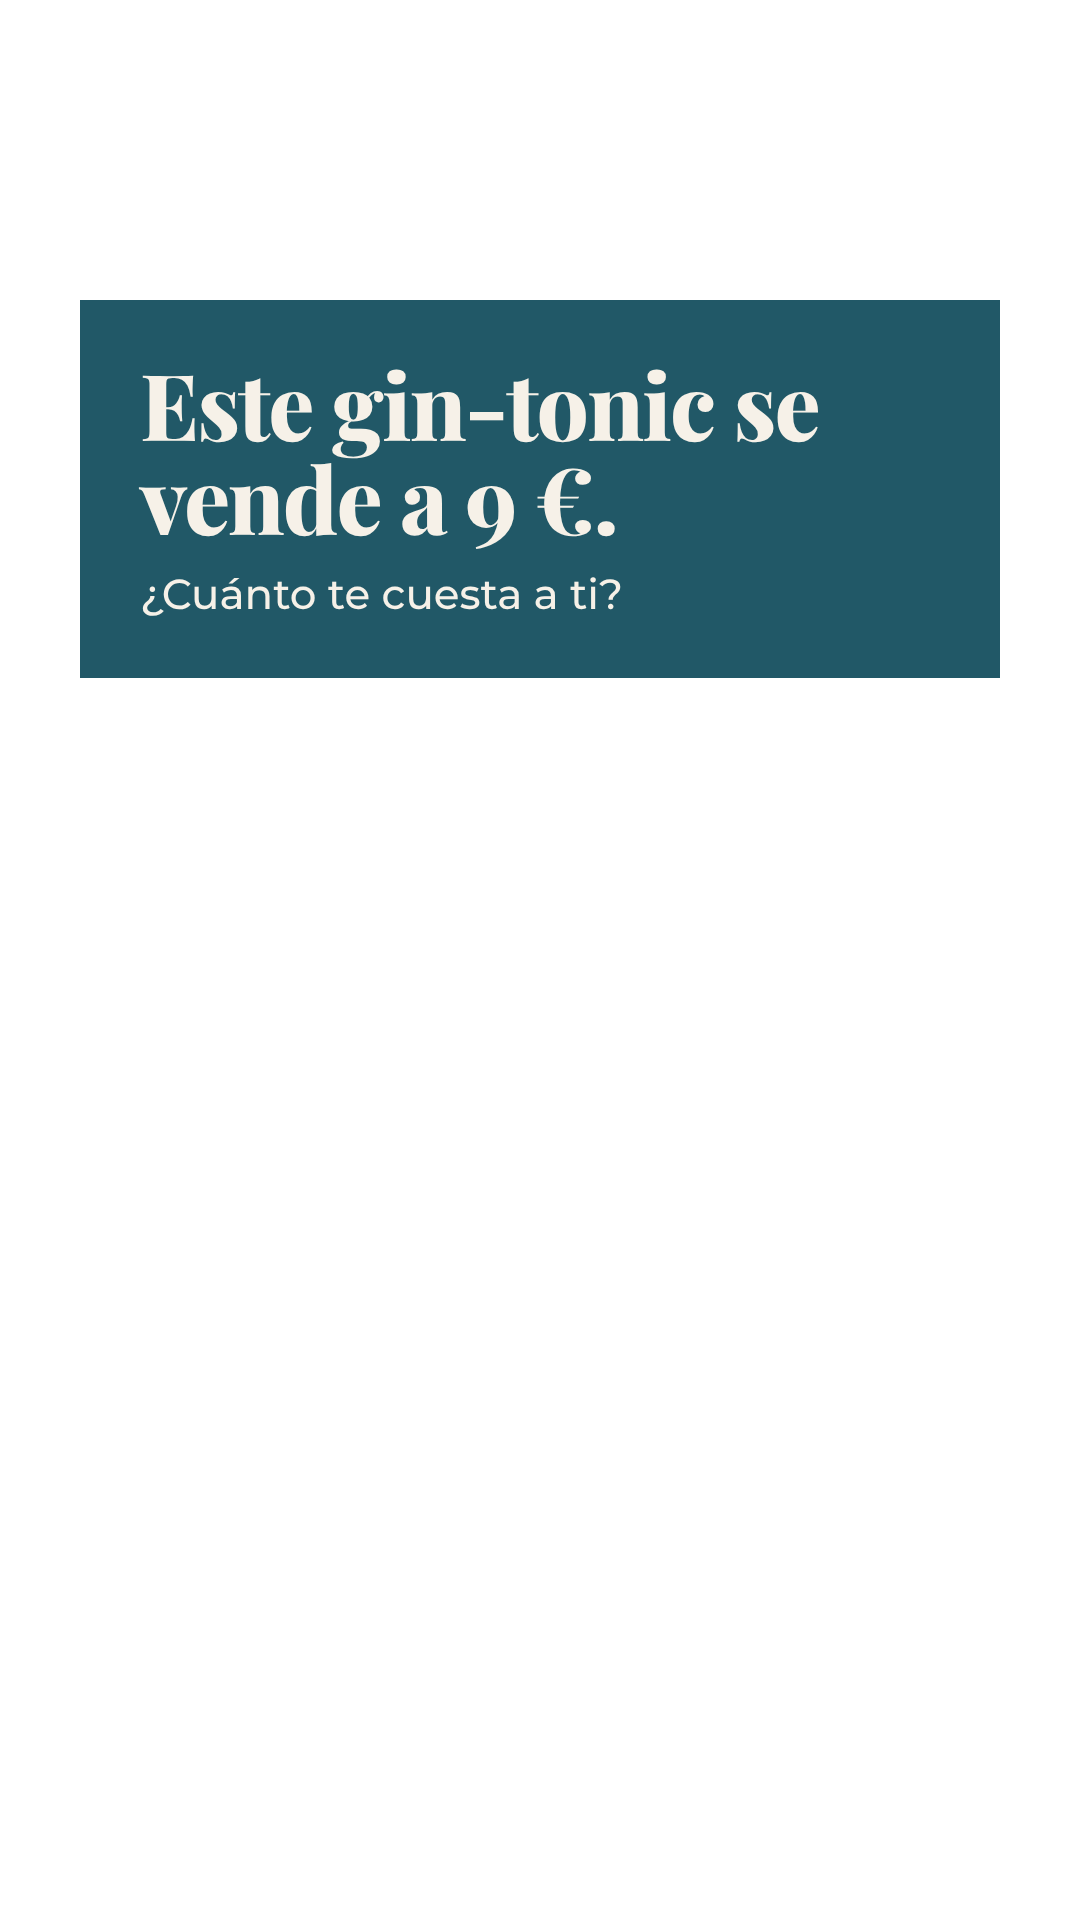
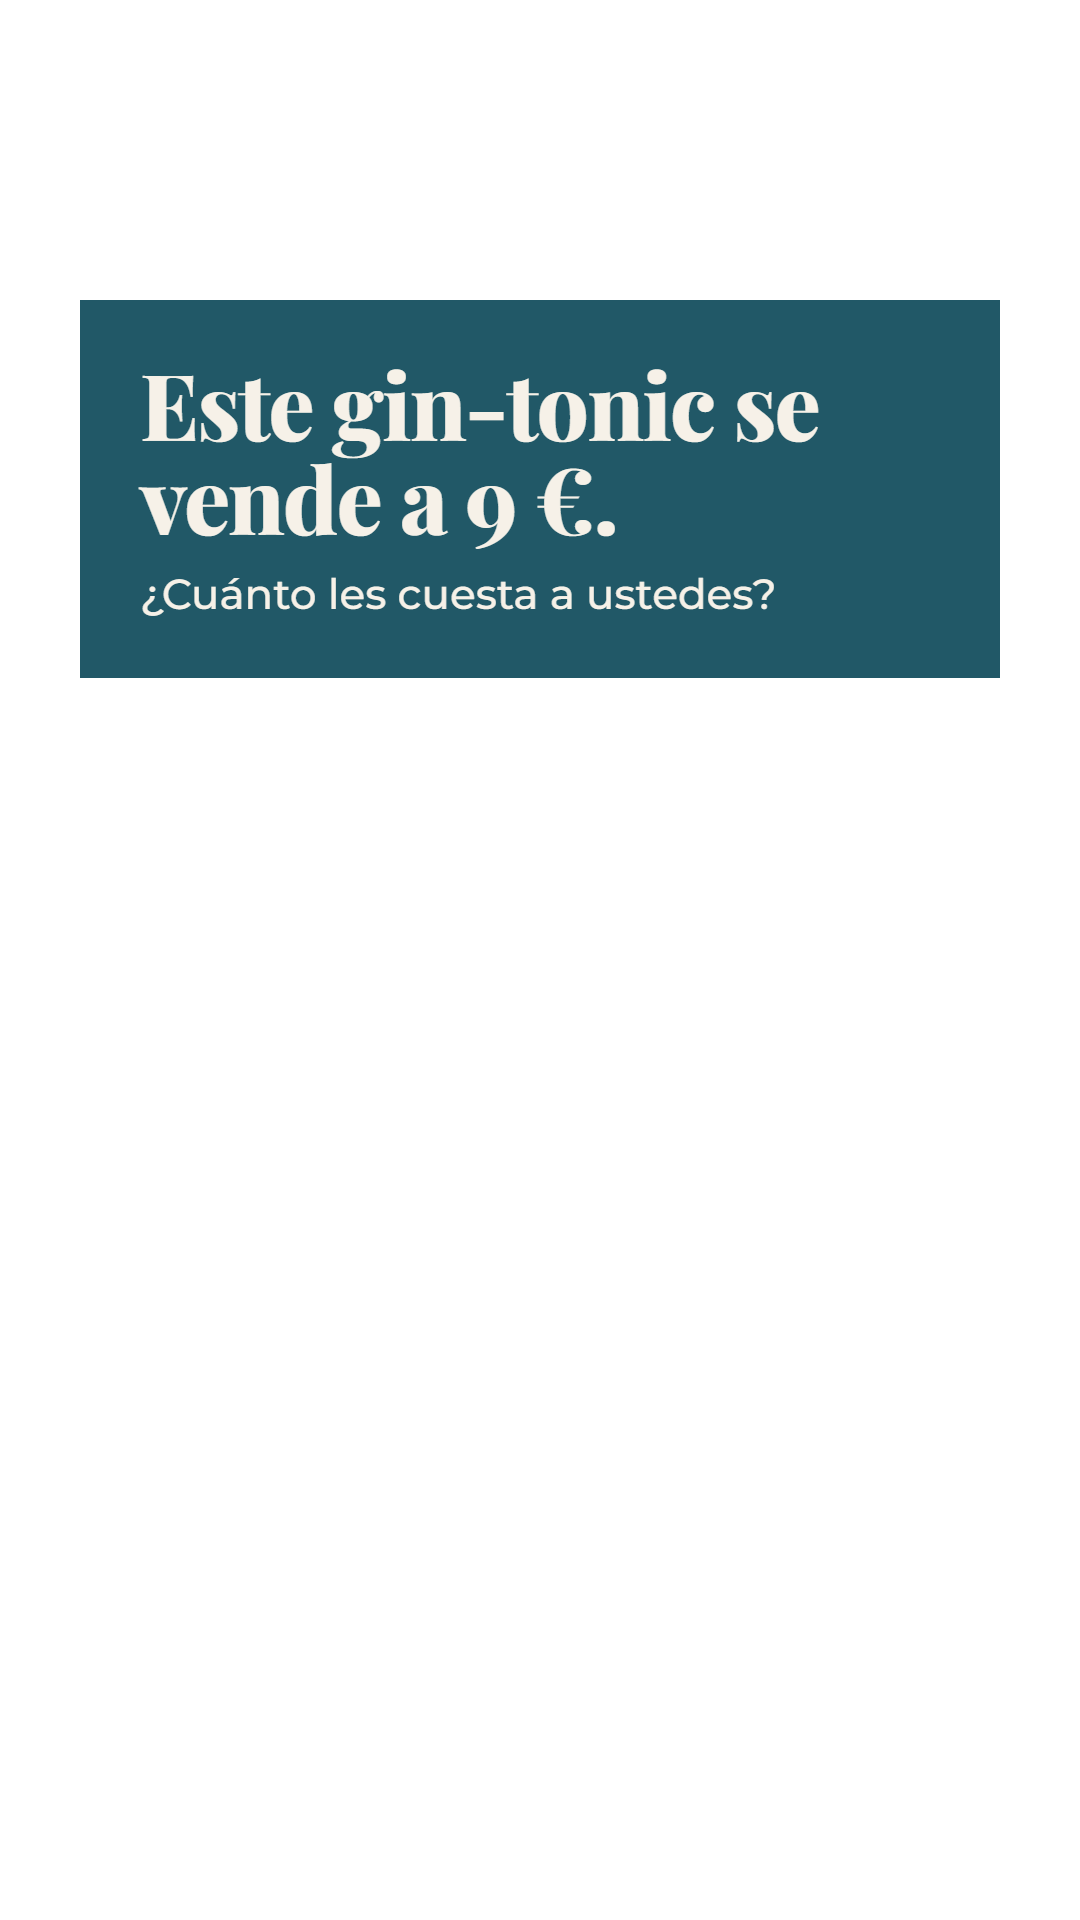
Reel del gin-tonic: rótulos y script de la versión preparada para Instagram
Copia en redes/reel_coste_gintonic los rótulos rehechos (1 y 7 con
«ustedes», cifra de la ginebra sin partir) y el textos.js y montar.sh con
los que se montó en el portátil el Reel de redes/2026-11-02.

Changed region(s): [[0.3056, 0.2812, 0.7028, 0.3438]]

diff --git a/redes/reel_coste_gintonic/_fuentes/textos.js b/redes/reel_coste_gintonic/_fuentes/textos.js
@@ -3,7 +3,7 @@
 // 9 € / 1,07 = 8,41 € sin IGIC; 8,41 − 2,20 = 6,21 € de margen bruto.
 const {chromium}=require('playwright');const fs=require('fs'),path=require('path');
 const S=__dirname,O=path.join(__dirname,'..','rotulos');fs.mkdirSync(O,{recursive:true});
-const u=f=>'file://'+path.join(S,f);
+const {pathToFileURL}=require('url');const u=f=>pathToFileURL(path.join(S,f)).href; // vale en Windows y Linux
 const css=`@font-face{font-family:M;src:url(${u('montserrat.woff2')})}@font-face{font-family:P;src:url(${u('playfair-display.woff2')})}
 *{margin:0;padding:0;box-sizing:border-box}html,body{width:1080px;height:1920px;background:transparent;font-family:M;font-variant-numeric:tabular-nums}
 .box{position:absolute;left:80px;right:80px;top:300px;background:rgba(14,74,90,.92);color:#F6F1E8;padding:56px 60px}
@@ -20,14 +20,15 @@ p{font-size:42px;line-height:1.35;margin-top:22px;font-weight:500}
 .end .h{margin-top:46px;font-size:40px;font-weight:600}`;
 const ej='<div class="ej">Cifras de ejemplo</div>';
 const C={
- '1_gancho':`<div class="box"><h1>Este gin-tonic se vende a 9 €.</h1><p>¿Cuánto te cuesta a ti?</p></div>`,
- '2_ginebra':`${ej}<div class="box"><div class="lbl">Ginebra · 50 ml</div><div class="big">1,00 €</div><p>Botella de 70 cl a 14 € → 0,02 € por ml</p></div>`,
+ '1_gancho':`<div class="box"><h1>Este gin-tonic se vende a 9 €.</h1><p>¿Cuánto les cuesta a ustedes?</p></div>`,
+ '2_ginebra':`${ej}<div class="box"><div class="lbl">Ginebra · 50 ml</div><div class="big">1,00 €</div><p>Botella de 70 cl a 14 € → <span style="white-space:nowrap">0,02 € por ml</span></p></div>`,
  '3_tonica':`${ej}<div class="box"><div class="lbl">Tónica</div><div class="big">1,00 €</div><p>Lo que pagas por cada tónica</p></div>`,
  '4_hielo':`${ej}<div class="box"><div class="lbl">Hielo y lima</div><div class="big">0,20 €</div><p>También cuentan</p></div>`,
  '5_coste':`${ej}<div class="box"><div class="lbl">Coste de la copa</div><div class="row"><span>Ginebra</span><b>1,00 €</b></div><div class="row"><span>Tónica</span><b>1,00 €</b></div><div class="row"><span>Hielo y lima</span><b>0,20 €</b></div><div class="row tot"><span>Total</span><b>2,20 €</b></div></div>`,
  '6_margen':`${ej}<div class="box"><p style="margin:0">Precio sin IGIC (7 %): 8,41 €</p><div class="lbl" style="margin-top:28px">Te quedan por copa</div><div class="big">6,21 €</div><p>Es margen bruto, no beneficio: faltan personal, alquiler y el resto de gastos.</p></div>`,
- '7_cierre':`<div class="end"><h1>¿Lo calculamos con tu carta?</h1><div class="cta">Escribe «COSTE»</div><div class="h">@islaybarra.hosteleria · islaybarra.es</div></div>`};
+ '7_cierre':`<div class="end"><h1>¿Lo calculamos con su carta?</h1><div class="cta">Escríbannos «COSTE»</div><div class="h">@islaybarra.hosteleria · islaybarra.es</div></div>`};
 (async()=>{const b=await chromium.launch();const p=await b.newPage({viewport:{width:1080,height:1920}});
- for(const [k,h] of Object.entries(C)){const f=path.join(S,'_t.html');fs.writeFileSync(f,`<!doctype html><meta charset=utf-8><style>${css}</style>${h}`);
-  await p.goto('file://'+f);await p.evaluate(()=>document.fonts.ready);await p.screenshot({path:path.join(O,k+'.png'),omitBackground:true});console.log('ok',k)}
+ const solo=process.argv.slice(2); // opcional: node textos.js 2_ginebra → regenera solo esos rótulos
+ for(const [k,h] of Object.entries(C)){if(solo.length&&!solo.includes(k))continue;const f=path.join(S,'_t.html');fs.writeFileSync(f,`<!doctype html><meta charset=utf-8><style>${css}</style>${h}`);
+  await p.goto(pathToFileURL(f).href);await p.evaluate(()=>document.fonts.ready);await p.screenshot({path:path.join(O,k+'.png'),omitBackground:true});console.log('ok',k)}
  fs.unlinkSync(path.join(S,'_t.html'));await b.close()})();
